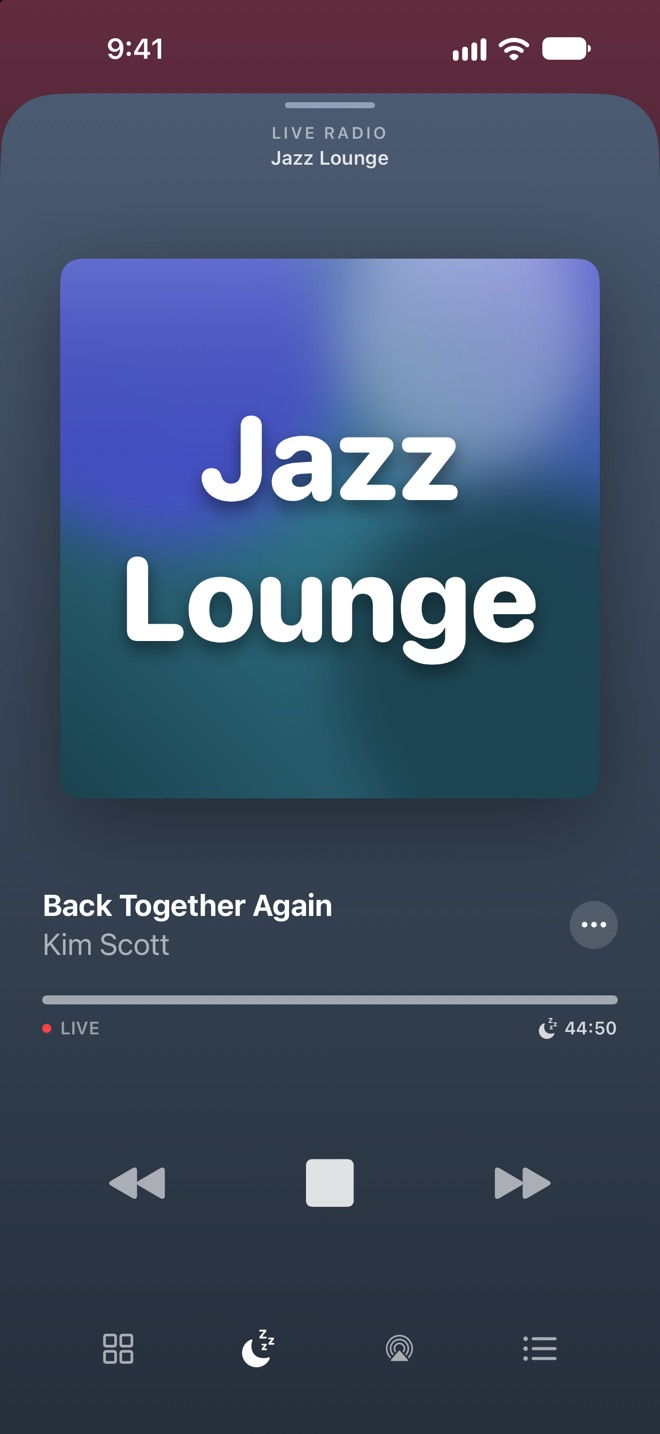
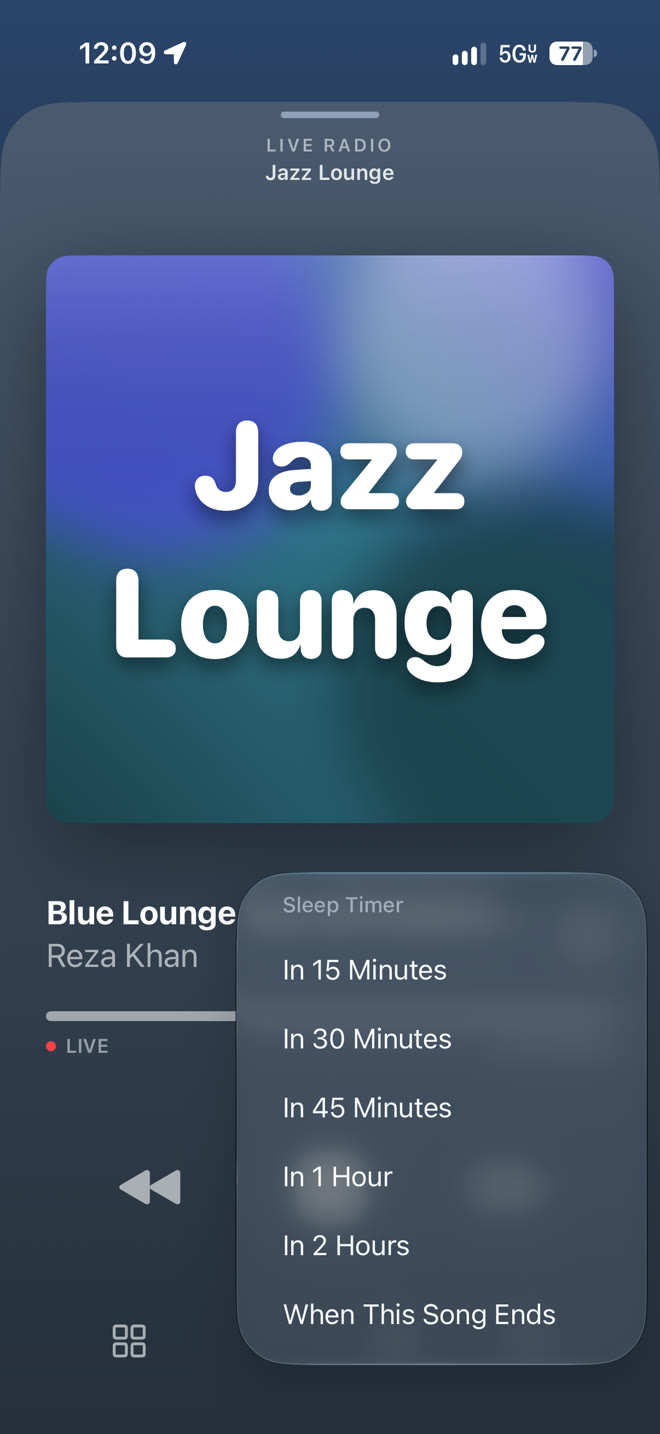
Real screenshots: CarPlay from a car display, How it works from an iPhone
CarPlay section: the drawn CSS mockup is replaced by two real dark-mode
CarPlay screenshots (demo stations) shown full width, switching on their
own every 5 s, with a Stations / Now Playing switch. How it works: home,
player and sleep timer menu from an iPhone 6.1", Pro screen with the
pinned purchase bar.

diff --git a/style.css b/style.css
@@ -177,31 +177,26 @@ h2 {
 .looks .tile.icon-style { background: #f3eee6; }
 .looks .tile.icon-style svg { width: 70%; height: auto; }
 
-/* CarPlay mockup */
-.carplay {
-  width: 100%; max-width: 520px; aspect-ratio: 16 / 8.6; border-radius: 26px; background: #050507;
-  box-shadow: 0 0 0 10px #18151c, 0 0 0 11px #2d2833, 0 40px 80px rgba(0, 0, 0, .55);
-  display: grid; grid-template-columns: 58px 1fr; overflow: hidden;
+/* CarPlay: real screenshots of a wide car display, full width under the text, in a dark bezel. */
+.feature-wide { grid-template-columns: minmax(0, 1fr); gap: 34px; }
+.feature-wide .feature-copy { display: grid; grid-template-columns: minmax(0, 1fr) minmax(0, 1fr); column-gap: 60px; align-items: center; }
+.feature-wide .feature-copy > * { grid-column: 1; }
+.feature-wide .feature-copy > .tag { justify-self: start; }
+.feature-wide .feature-copy > ul { grid-column: 2; grid-row: 1 / 4; margin: 0; }
+.feature-wide .feature-visual { flex-direction: column; gap: 18px; }
+.feature-wide .feature-visual::before { inset: 0 12%; }
+.cp-screen {
+  --bezel: clamp(5px, .9vw, 10px);
+  position: relative; width: 100%; aspect-ratio: 2200 / 643; border-radius: clamp(14px, 2.2vw, 26px); background: #000; overflow: hidden;
+  box-shadow: 0 0 0 var(--bezel) #18151c, 0 0 0 calc(var(--bezel) + 1px) #2d2833, 0 40px 80px rgba(0, 0, 0, .55);
 }
-.cp-side { background: #141218; display: flex; flex-direction: column; align-items: center; gap: 12px; padding: 14px 0; font-size: 12px; font-weight: 600; }
-.cp-side i { display: block; width: 32px; height: 32px; border-radius: 9px; background: #2a2630; }
-.cp-side i.on { background: var(--grad); }
-.cp-main { padding: 14px 18px; display: flex; flex-direction: column; gap: 12px; min-width: 0; }
-.cp-tabs { display: flex; justify-content: center; gap: 6px; font-size: 12px; font-weight: 600; }
-.cp-tabs span { padding: 4px 12px; border-radius: 999px; color: #a8a0b3; }
-.cp-tabs span.on { background: #322d38; color: #fff; }
-.cp-label { font-size: 12px; color: #a8a0b3; font-weight: 600; }
-.cp-row { display: grid; grid-template-columns: repeat(4, 1fr); gap: 12px; }
-.cp-row .tile { font-size: 13px; border-radius: 16%; }
-.cp-row .playing { outline: 2px solid #fff; outline-offset: 2px; }
-.cp-now { margin-top: auto; display: flex; align-items: center; gap: 10px; background: #141218; border-radius: 12px; padding: 8px 10px; }
-.cp-now .tile { width: 36px; font-size: 6px; border-radius: 8px; padding: 4px; }
-.cp-now b { display: block; font-size: 13px; }
-.cp-now small { color: #a8a0b3; font-size: 11px; }
-.cp-now .eq { margin-left: auto; display: flex; gap: 2px; align-items: flex-end; height: 14px; }
-.cp-now .eq i { width: 3px; background: #ff5f8f; border-radius: 2px; animation: eq 1s ease-in-out infinite; }
-.cp-now .eq i:nth-child(2) { animation-delay: -.3s; }
-.cp-now .eq i:nth-child(3) { animation-delay: -.6s; }
+.cp-shot { position: absolute; inset: 0; width: 100%; height: 100%; opacity: 0; transition: opacity .6s ease; }
+.cp-shot.on { opacity: 1; }
+.cp-switch { display: inline-flex; gap: 4px; padding: 4px; border-radius: 999px; background: var(--surface-2); border: 1px solid var(--line); }
+.cp-switch button { font: inherit; font-size: 14px; font-weight: 600; color: var(--muted); background: none; border: 0; padding: 8px 16px; border-radius: 999px; cursor: pointer; }
+.cp-switch button.on { background: rgba(255, 255, 255, .12); color: var(--text); }
+.cp-switch button:focus-visible { outline: 2px solid #ff9cc8; outline-offset: 2px; }
+@media (prefers-reduced-motion: reduce) { .cp-shot { transition: none; } }
 @keyframes eq { 0%, 100% { height: 30%; } 50% { height: 100%; } }
 
 /* Explore mockup */
@@ -315,6 +310,9 @@ article a { color: #ff9cc8; }
   .feature.flip .feature-visual { order: 0; }
   .feature-copy { text-align: center; }
   .feature ul { justify-items: center; }
+  .feature-wide .feature-copy { grid-template-columns: minmax(0, 1fr); }
+  .feature-wide .feature-copy > .tag { justify-self: center; }
+  .feature-wide .feature-copy > ul { grid-column: 1; grid-row: auto; margin-top: 24px; }
   .grid-3 { grid-template-columns: 1fr 1fr; }
   .plans { grid-template-columns: 1fr; }
   section { padding: 80px 0; }
@@ -331,11 +329,6 @@ article a { color: #ff9cc8; }
   .tile-floor { width: 1100px; gap: 16px; }
   .tile-floor .tile { font-size: 19px; }
   .plan { padding: 26px 22px; }
-  .carplay { aspect-ratio: auto; grid-template-columns: 44px 1fr; border-radius: 20px; }
-  .cp-side i { width: 26px; height: 26px; }
-  .cp-main { padding: 12px; gap: 10px; }
-  .cp-row { gap: 8px; }
-  .cp-row .tile { font-size: 10px; }
   .feature li { text-align: left; }
 }
 

diff --git a/index.html b/index.html
@@ -13,7 +13,7 @@
   <meta name="twitter:card" content="summary">
   <link rel="icon" href="icon.png">
   <link rel="apple-touch-icon" href="icon.png">
-  <link rel="stylesheet" href="style.css?v=13">
+  <link rel="stylesheet" href="style.css?v=14">
 </head>
 <body>
   <header class="nav">
@@ -138,7 +138,7 @@
           <div class="phone story-phone">
             <img class="shot on" src="assets/home.jpg" alt="The home screen with station tiles" width="660" height="1434">
             <img class="shot" src="assets/player-live.jpg" alt="The full-screen player" width="660" height="1434" loading="lazy">
-            <img class="shot" src="assets/player.jpg" alt="The player with a sleep timer counting down" width="660" height="1434" loading="lazy">
+            <img class="shot" src="assets/player.jpg" alt="The sleep timer menu: in 15 minutes to 2 hours, or when this song ends" width="660" height="1434" loading="lazy">
             <img class="shot" src="assets/pro.jpg" alt="The Radio Tiles Pro screen" width="660" height="1434" loading="lazy">
           </div>
           <div class="steps" role="group" aria-label="Steps">
@@ -207,7 +207,7 @@
           </div>
         </div>
 
-        <div class="feature flip reveal" id="carplay">
+        <div class="feature feature-wide reveal" id="carplay">
           <div class="feature-copy">
             <span class="tag">CarPlay</span>
             <h2>Made for the drive.</h2>
@@ -219,23 +219,14 @@
             </ul>
           </div>
           <div class="feature-visual">
-            <div class="carplay" role="img" aria-label="Radio Tiles in CarPlay: a row of station tiles and the song now playing">
-              <div class="cp-side"><span>9:41</span><i class="on"></i><i></i><i></i></div>
-              <div class="cp-main">
-                <div class="cp-tabs"><span class="on">Stations</span><span>Recently Played</span></div>
-                <div class="cp-label">Stations</div>
-                <div class="cp-row">
-                  <div class="tile" style="--h:3">Lo-Fi Study</div>
-                  <div class="tile playing" style="--h:194">Jazz Lounge</div>
-                  <div class="tile" style="--h:134">Country Roads</div>
-                  <div class="tile" style="--h:257">Arena Rock</div>
-                </div>
-                <div class="cp-now">
-                  <div class="tile" style="--h:194">Jazz Lounge</div>
-                  <div><b>Keep It Smooth</b><small>Lali P · Jazz Lounge</small></div>
-                  <div class="eq"><i></i><i></i><i></i></div>
-                </div>
-              </div>
+            <!-- Real CarPlay screenshots (demo stations, dark mode, a wide car display). -->
+            <div class="cp-screen">
+              <img class="cp-shot on" src="assets/carplay-stations.jpg" alt="Radio Tiles in CarPlay: station tiles, All Stations, Top of the Week and the song now playing" width="2200" height="643" loading="lazy">
+              <img class="cp-shot" src="assets/carplay-playing.jpg" alt="Now Playing in CarPlay: Jazz Lounge, Blue Lounge by Reza Khan" width="2200" height="643" loading="lazy">
+            </div>
+            <div class="cp-switch" role="group" aria-label="CarPlay screens">
+              <button type="button" class="on" data-cp="0" aria-pressed="true">Stations</button>
+              <button type="button" data-cp="1" aria-pressed="false">Now Playing</button>
             </div>
           </div>
         </div>
@@ -698,6 +689,17 @@
       }
       steps.forEach(function (s, k) { s.addEventListener("click", function () { showStep(k); }); });
       if (steps.length) showStep(0);
+
+      // CarPlay: the real screens switch on their own (Stations, Now Playing); a tap on a button picks one and stops it.
+      var cpShots = document.querySelectorAll(".cp-shot"), cpButtons = document.querySelectorAll(".cp-switch button"), cpTimer;
+      function showCarPlay(i, auto) {
+        cpButtons.forEach(function (b, k) { b.classList.toggle("on", k === i); b.setAttribute("aria-pressed", k === i ? "true" : "false"); });
+        cpShots.forEach(function (img, k) { img.classList.toggle("on", k === i); });
+        clearTimeout(cpTimer);
+        if (auto && !still) cpTimer = setTimeout(function () { showCarPlay((i + 1) % cpShots.length, true); }, 5000);
+      }
+      cpButtons.forEach(function (b, k) { b.addEventListener("click", function () { showCarPlay(k, false); }); });
+      if (cpShots.length) showCarPlay(0, true);
 
       // Idea 6: the hero video stays still for people who prefer less motion.
       var video = document.querySelector(".screen-video");
